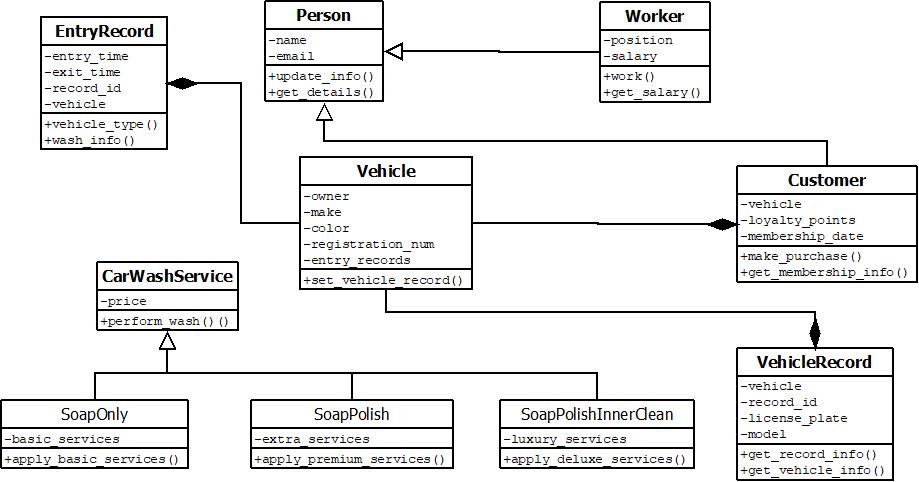
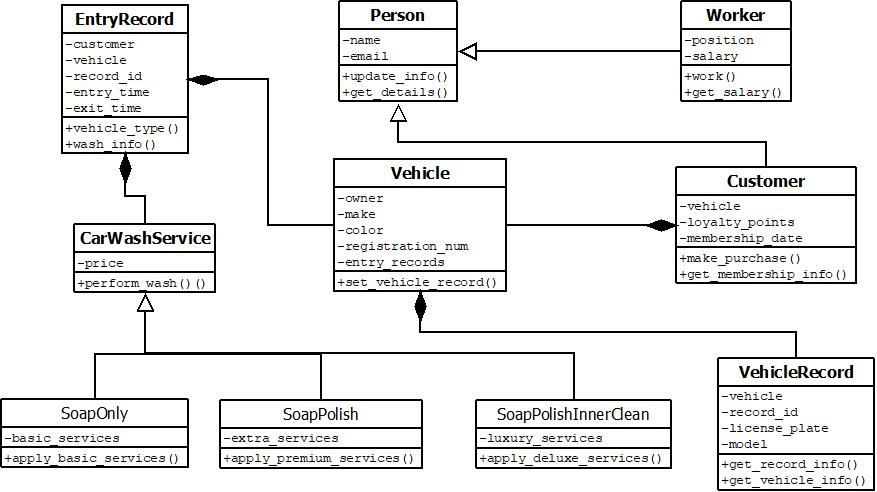
Added Relationship

Changed region(s): [[0.0, 0.0, 1.0, 1.0], [0.2463, 0.8091, 0.4926, 0.9959]]

diff --git a/main.py b/main.py
@@ -1,33 +1,44 @@
 from customer import Customer
 from worker import Worker
-from services import SoapOnly
-from services import SoapAndPolish
-from services import SoapPolishInnerClean
+from services import SoapOnly, SoapAndPolish, SoapPolishInnerClean
 from entryrecord import EntryRecord
 from vehicle import Vehicle
-from vehcilerecord import VehicleRecord
+from vehiclerecord import VehicleRecord
 
 if __name__ == "__main__":
-    customer = Customer("Bisma Ali", "biya929@gmail.com", "33%", "2024-09-01")
 
-    car = Vehicle(make="Toyota", color="Red", registration_num="ABC123")
-    customer.add_vehicle(car)
-    
-    worker = Worker("John Doe", "john.doe@gmail.com", position="Manager", salary=50000)
+    vehicle1 = Vehicle(owner="Abdul Wahab", make="Toyota", model="Corolla", color="Red", registration_num="Abdul-1378")
+    customer1 = Customer(name="Bisma Ali", email="biya929@gmail.com", vehicle=vehicle1, loyalty_points=450, membership_date="2024-07-09")
+
+    vehicle2 = Vehicle(owner="Usman Ali", make="Honda", model="Civic", color="Blue", registration_num="Jutt-7856")
+    customer2 = Customer(name="Iqra Ali", email="iqra442@gmail.com", vehicle=vehicle2, loyalty_points=700, membership_date="2023-10-14")
+
+    worker = Worker(name="Ali Ahmad", email="ahmad112@gmail.com", position="Manager", salary=50000)
     print(worker.work())
-    
-    c1 = SoapPolishInnerClean(5500, "Soap, Polish & Inner Clean")
+
+    c1 = SoapPolishInnerClean(price=9500, luxury_services="Soap, Polish & Inner Clean")
     print(c1.price)
     print(c1.luxury_services) 
     print(c1.apply_deluxe_services())
     
-    entry_record = EntryRecord(record_id="001", entry_time="09:00", exit_time="10:00", vehicle_type="Sedan")
-    car.set_vehicle_record(entry_record)
+    entry_record = EntryRecord(customer=customer1, 
+                               vehicle=vehicle1, 
+                               record_id=101, 
+                               entry_time="07:00 PM", 
+                               exit_time="8:30 PM",
+                               wash_service=c1)
+    vehicle1.set_vehicle_record(entry_record)
     print(entry_record.wash_info()) 
     
-    print(car.registration_num)
-    print(car.get_vehicle_info())  
+    print(vehicle1.registration_num)
+    print(vehicle1.get_vehicle_info())  
+
+    print(vehicle2.registration_num)
+    print(vehicle2.get_vehicle_info())
     
-    vehicle_record = VehicleRecord(vehicle=car, record_id="123ABC", license_plate="ABC123", model="Camry")
+    vehicle_record = VehicleRecord(vehicle=vehicle1, record_id="Biya929", license_plate="AHM-1229", model="Camry")
     print(vehicle_record.license_plate)
     print(vehicle_record.get_record_info()) 
+
+    print(customer1.get_membership_info())
+    print(customer2.get_membership_info())

diff --git a/entryrecord.py b/entryrecord.py
@@ -1,12 +1,19 @@
+from services import SoapOnly, SoapAndPolish, SoapPolishInnerClean
 from vehicle import Vehicle
 
 class EntryRecord:
-    def __init__(self, record_id, entry_time, exit_time, vehicle_type):
+    def __init__(self, customer, vehicle, record_id, entry_time, exit_time, wash_service):
+        self.customer = customer
+        self.vehicle = vehicle
         self.record_id = record_id
         self.entry_time = entry_time
         self.exit_time = exit_time
-        self.vehicle_type = vehicle_type
-        self.vehicle = None
+        self.wash_service = wash_service
 
+
+    def vehicle_type(self):
+        return f"Vehicle Type: {self.vehicle.make} {self.vehicle.model}"
+
+    
     def wash_info(self):
-        return f"Vehicle Type: {self.vehicle_type}, Entry Time: {self.entry_time}, Exit Time: {self.exit_time}"
+        return f"Wash Info for {self.vehicle.make} {self.vehicle.model}: Entry Time: {self.entry_time}, Exit Time: {self.exit_time}"

diff --git a/customer.py b/customer.py
@@ -1,21 +1,15 @@
 from person import Person
 
 class Customer(Person):
-    def __init__(self, name, email, loyalty_points, membership_date):
+    def __init__(self, name, email, vehicle, loyalty_points, membership_date):
         super().__init__(name, email)
+        self.vehicle = vehicle
         self.loyalty_points = loyalty_points
         self.membership_date = membership_date
-        self.vehicles = []
+
 
     def make_purchase(self):
         self.loyalty_points += 10
 
     def get_membership_info(self):
-        return f"Membership since: {self.membership_date}, Loyalty Points: {self.loyalty_points}"
-
-    def add_vehicle(self, vehicle):
-        self.vehicles.append(vehicle)
-        vehicle.owner = self
-
-    def get_vehicle_info(self):
-        return [vehicle.get_vehicle_info() for vehicle in self.vehicles]
+        return f"Customer: {self.name}, Loyalty Points: {self.loyalty_points}, Member since: {self.membership_date}"

diff --git a/vehicle.py b/vehicle.py
@@ -1,14 +1,15 @@
 class Vehicle:
-    def __init__(self, make, color, registration_num):
+    def __init__(self, owner, make, model, color, registration_num):
+        self.owner = owner
         self.make = make
+        self.model = model
         self.color = color
         self.registration_num = registration_num
-        self.entry_records = []  
-        self.owner = None
+        self.entry_records = []
+
 
     def set_vehicle_record(self, record):
         self.entry_records.append(record)
 
     def get_vehicle_info(self):
-        owner_name = self.owner.name if self.owner else "No owner"
-        return f"Make: {self.make}, Color: {self.color}, Reg No: {self.registration_num}, Owner: {owner_name}"
+        return f"Vehicle {self.make} {self.model}, Color: {self.color}, Registration: {self.registration_num}"
